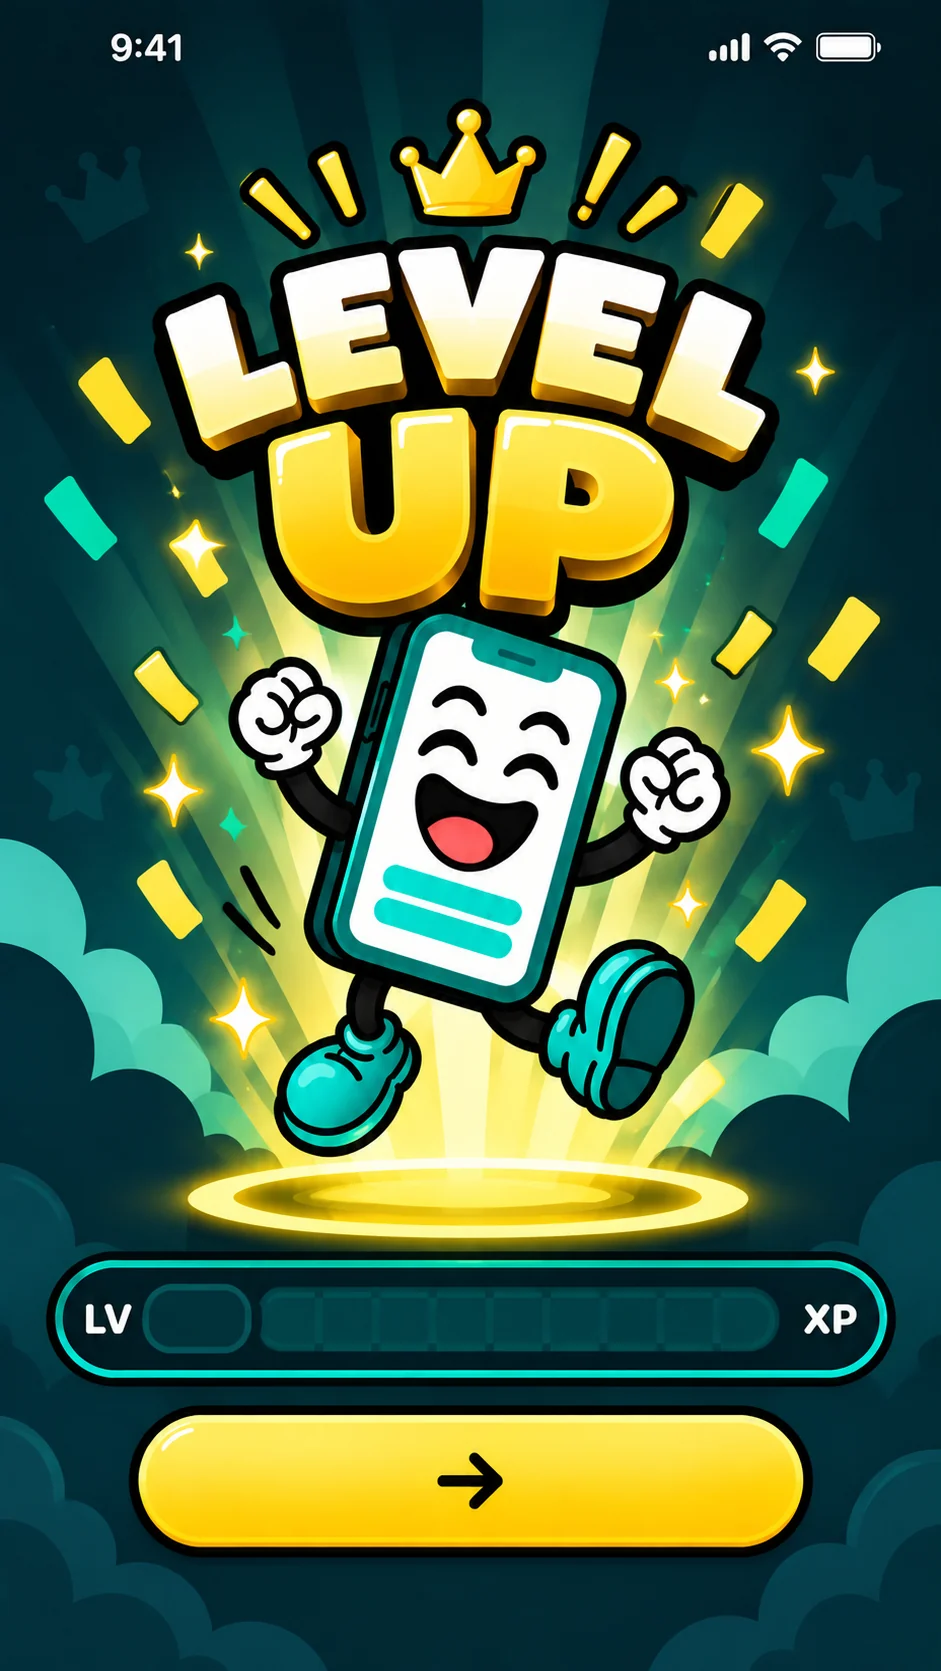
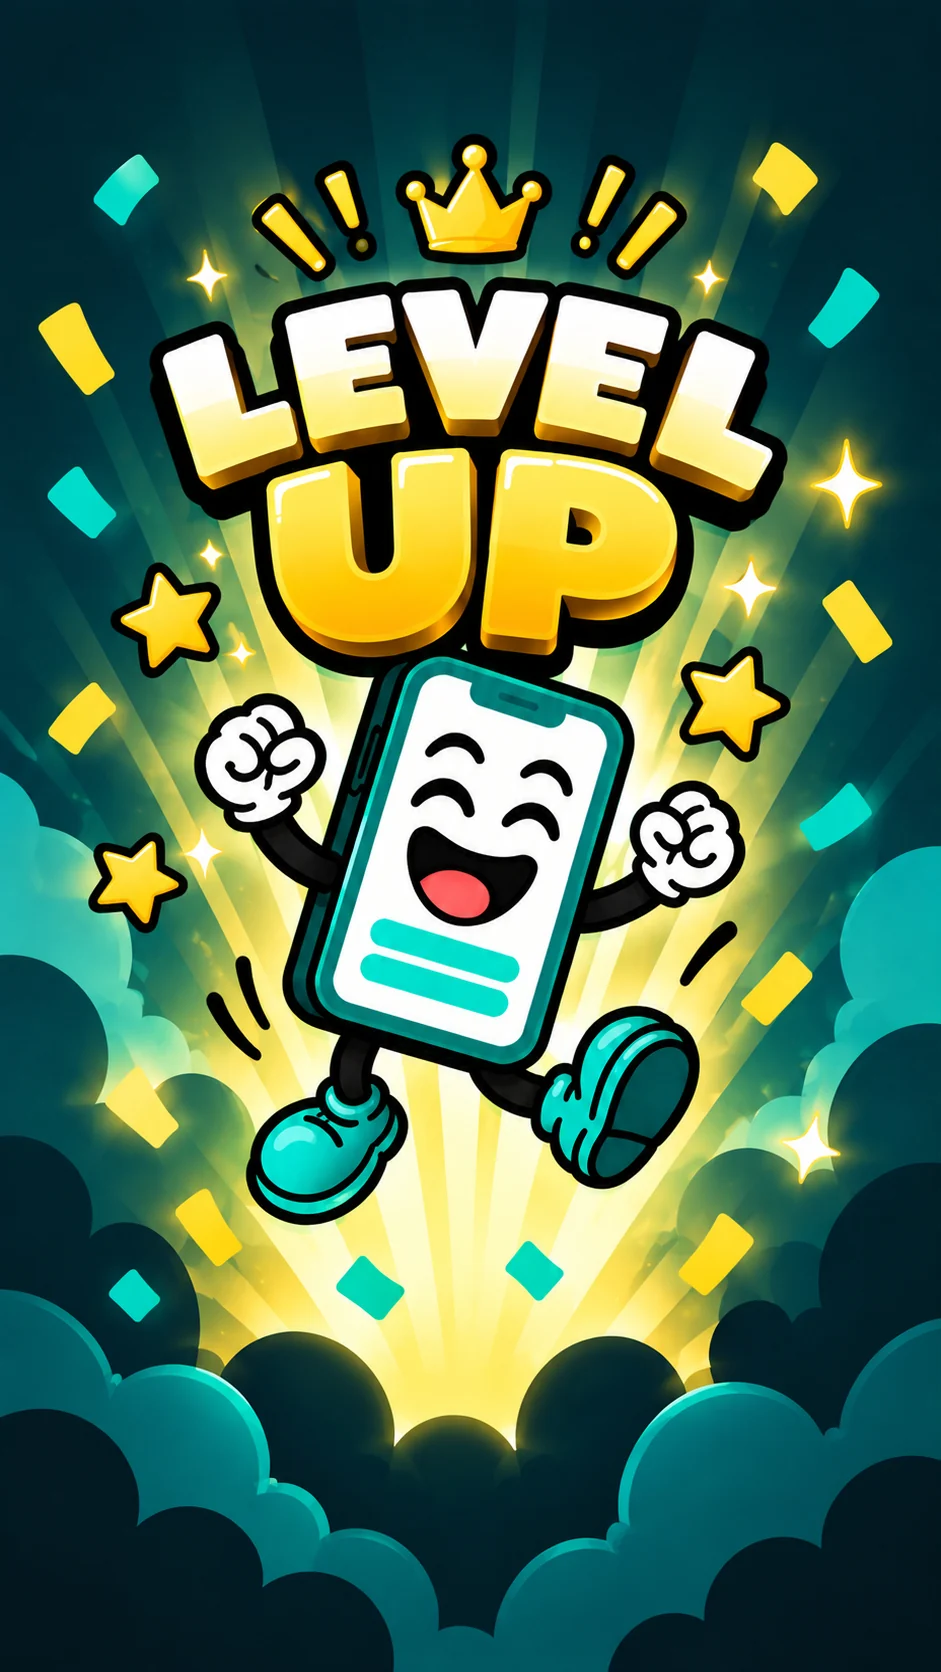
LEVEL UP: nuova immagine a tutto schermo, barra livello/XP e tasto giallo fatti dall'app

diff --git a/style.css b/style.css
@@ -939,19 +939,24 @@ body.fixed-screen .view { height: 100dvh; overflow: hidden; padding-bottom: calc
 .mban .mban-s { top: 51.5%; height: 7%; left: 52%; width: 40%; font-weight: 600; color: #6B7A70; font-size: clamp(8px, 2.4vw, 12px); white-space: nowrap; }
 .mban .mban-t { top: 59.5%; height: 15.5%; justify-content: center; text-align: center; padding: 0 3%; font-weight: 800; color: #1E6B3A; font-size: clamp(10px, 3vw, 15px); }
 
-/* ---------- LEVEL UP ---------- */
-.lvl { position: fixed; inset: 0; z-index: 95; background: #012E39; display: flex; align-items: center; justify-content: center; opacity: 0; transition: opacity .35s ease; }
+/* ---------- LEVEL UP: immagine a tutto schermo, barra e tasto fatti dall'app ---------- */
+.lvl { position: fixed; inset: 0; z-index: 95; background: #022B36; opacity: 0; transition: opacity .35s ease; overflow: hidden; }
 .lvl.in { opacity: 1; }
 .lvl.out { opacity: 0; }
-.lvl-box { position: relative; height: min(100dvh, calc(100vw / .563)); width: min(100vw, calc(100dvh * .563)); overflow: hidden; transform: scale(1.04); transition: transform .8s var(--ease-out); }
-.lvl.in .lvl-box { transform: scale(1); }
-.lvl-box img { position: absolute; left: -2.35%; top: -4.7%; width: 104.7%; height: 104.7%; object-fit: cover; }
-.lvl-num { position: absolute; left: 14.1%; top: 76.1%; width: 11.2%; height: 3.5%; display: flex; align-items: center; justify-content: center; color: #fff; font-weight: 800; font-size: clamp(16px, 5.2vw, 26px); text-shadow: 0 2px 0 rgba(0, 0, 0, .35); }
-.lvl-fill { position: absolute; left: 27.8%; top: 76.6%; width: 55.4%; height: 2.5%; border-radius: 999px; overflow: hidden; }
-.lvl-fill i { display: block; height: 100%; width: 0; border-radius: 999px; background: linear-gradient(90deg, #FFE55C, #FFC400); box-shadow: 0 0 12px rgba(255, 214, 0, .7); transition: width 1.1s cubic-bezier(.2, .8, .2, 1); }
-.lvl-xp { position: absolute; left: 0; right: 0; top: 71.8%; text-align: center; color: #BFF3E6; font-weight: 800; font-size: clamp(12px, 3.8vw, 18px); letter-spacing: .02em; text-shadow: 0 2px 6px rgba(0, 0, 0, .5); }
-.lvl-go { position: absolute; left: 13.2%; top: 83%; width: 73.6%; height: 8.5%; border-radius: 999px; background: transparent; cursor: pointer; }
-.lvl-go:active { background: rgba(255, 255, 255, .18); }
+.lvl-bg { position: absolute; inset: 0; background: #022B36 url('img/levelup.webp') center 38% / cover no-repeat; transform: scale(1.08); transition: transform 1.3s var(--ease-out); }
+.lvl.in .lvl-bg { transform: scale(1); }
+.lvl-ui { position: absolute; left: 0; right: 0; bottom: 0; padding: 56px 22px calc(var(--sab) + 26px); background: linear-gradient(to top, rgba(2, 43, 54, .92) 0, rgba(2, 43, 54, .7) 55%, transparent); display: flex; flex-direction: column; gap: 14px; transform: translateY(30px); opacity: 0; transition: transform .6s .25s var(--ease-out), opacity .6s .25s ease; }
+.lvl.in .lvl-ui { transform: none; opacity: 1; }
+.lvl-bar2 { display: flex; align-items: center; gap: 10px; height: 58px; padding: 0 16px; border-radius: 18px; background: #06323D; border: 3px solid #1FD1B5; box-shadow: 0 0 0 3px #04252E, 0 10px 24px rgba(0, 0, 0, .35); color: #E9FBF7; font-weight: 800; font-size: 15px; letter-spacing: .05em; }
+.lb-n { min-width: 48px; height: 36px; padding: 0 8px; border-radius: 10px; background: rgba(255, 255, 255, .08); border: 2px solid rgba(31, 209, 181, .5); display: inline-flex; align-items: center; justify-content: center; font-size: 19px; color: #FFD84D; }
+.lb-track { flex: 1; height: 24px; border-radius: 8px; background: rgba(255, 255, 255, .07); border: 2px solid rgba(31, 209, 181, .35); overflow: hidden; position: relative; }
+.lb-track i { display: block; height: 100%; width: 0; background: linear-gradient(90deg, #FFE55C, #FFC400); box-shadow: 0 0 14px rgba(255, 214, 0, .8); transition: width 1.1s cubic-bezier(.2, .8, .2, 1); }
+.lb-track::after { content: ''; position: absolute; inset: 0; background: repeating-linear-gradient(90deg, transparent 0 calc(10% - 2px), rgba(4, 37, 46, .9) calc(10% - 2px) 10%); pointer-events: none; }
+.lvl-xp2 { text-align: center; color: #BFF3E6; font-weight: 800; font-size: 14px; letter-spacing: .03em; margin-top: -4px; text-shadow: 0 2px 6px rgba(0, 0, 0, .5); }
+.lvl-btn { height: 64px; border-radius: 999px; background: linear-gradient(#FFE04D, #FFC400); box-shadow: 0 6px 0 #C99600, 0 12px 24px rgba(0, 0, 0, .35); color: #1F2A24; display: flex; align-items: center; justify-content: center; transition: transform .1s ease, box-shadow .1s ease; animation: lvlPulse 1.6s .9s ease-in-out infinite; }
+.lvl-btn .ic { width: 32px; height: 32px; stroke-width: 2.6; }
+.lvl-btn:active { transform: translateY(4px); box-shadow: 0 2px 0 #C99600, 0 6px 14px rgba(0, 0, 0, .3); animation: none; }
+@keyframes lvlPulse { 0%, 100% { transform: scale(1); } 50% { transform: scale(1.025); } }
 .lvl-ring { position: relative; width: 140px; height: 140px; margin: 0 auto; }
 .lvl-ring svg { position: absolute; inset: 0; width: 100%; height: 100%; transform: rotate(-90deg); }
 .lvl-ring .tr { fill: none; stroke: rgba(255, 255, 255, .18); stroke-width: 5; }

diff --git a/app.js b/app.js
@@ -5,7 +5,7 @@
 (() => {
 'use strict';
 
-const APP_VERSION = '1.36.3';
+const APP_VERSION = '1.37.0';
 const KEY = 'pari:v1';
 /* Progetto Supabase "divvy": indirizzo e chiave pubblica (anon) sono pensati per stare nel client; la privacy è nel codice casa */
 const SUPA_URL = 'https://odvbwrrpbkuqccoprrrc.supabase.co';
@@ -1090,11 +1090,11 @@ function levelInfo() { const xp = xpTotal(); let lv = 1; while (xp >= xpFor(lv +
 /* schermata "LEVEL UP" a tutto schermo (immagine di Lucas + livello, XP e barra disegnati sopra) */
 function showLevelUp(li) {
   if ($('#levelup')) return; const el = document.createElement('div'); el.id = 'levelup'; el.className = 'lvl';
-  el.innerHTML = `<div class="lvl-box"><img src="img/levelup.webp" alt=""><div class="lvl-xp" data-no-i18n>${li.xp} / ${li.next} XP</div><div class="lvl-num" data-no-i18n>${li.lv}</div><div class="lvl-fill"><i style="width:0%"></i></div><button type="button" class="lvl-go" aria-label="Continua"></button></div>`;
+  el.innerHTML = `<div class="lvl-bg"></div><div class="lvl-ui"><div class="lvl-bar2" data-no-i18n><span class="lb-l">LV</span><span class="lb-n">${li.lv}</span><span class="lb-track"><i style="width:0%"></i></span><span class="lb-l">XP</span></div><div class="lvl-xp2" data-no-i18n>${li.xp} / ${li.next} XP</div><button type="button" class="lvl-btn" aria-label="Continua"><svg class="ic" viewBox="0 0 24 24"><path d="M5 12h14M13 6l6 6-6 6"/></svg></button></div>`;
   document.body.appendChild(el); try { if (navigator.vibrate) navigator.vibrate([40, 60, 40]); } catch (_) {}
-  requestAnimationFrame(() => requestAnimationFrame(() => { el.classList.add('in'); setTimeout(() => { const f = $('.lvl-fill i', el); if (f) f.style.width = Math.max(4, li.pct) + '%'; }, 500); }));
+  requestAnimationFrame(() => requestAnimationFrame(() => { el.classList.add('in'); setTimeout(() => { const f = $('.lb-track i', el); if (f) f.style.width = Math.max(4, li.pct) + '%'; }, 500); }));
   const close = () => { el.classList.remove('in'); el.classList.add('out'); setTimeout(() => el.remove(), 450); };
-  $('.lvl-go', el).addEventListener('click', close); el.addEventListener('click', (e) => { if (e.target === el) close(); });
+  $('.lvl-btn', el).addEventListener('click', close); el.addEventListener('click', (e) => { if (e.target === el || e.target.classList.contains('lvl-bg')) close(); });
 }
 function levelCheck() {
   let li; try { missionBusy = true; li = levelInfo(); } catch (_) { return; } finally { missionBusy = false; }

diff --git a/sw.js b/sw.js
@@ -1,7 +1,7 @@
 /* Divvy — service worker.
    Shell (html/js/css): prima la rete, cache solo se offline → gli aggiornamenti si vedono subito.
    Immagini, icone, font: prima la cache. Supabase: mai toccato. */
-const VERSION = 'pari-v1.36.3';
+const VERSION = 'pari-v1.37.0';
 const SHELL = [
   './', './index.html', './style.css', './app.js', './i18n.js', './img/traguardi/coppa.webp', './img/traguardi/mondo.webp', './img/traguardi/vetta.webp', './img/traguardi/sdraio.webp', './img/traguardi/pesi.webp', './img/traguardi/calendario.webp', './img/traguardi/moneta.webp', './img/traguardi/scontrino.webp', './img/traguardi/categorie.webp', './img/traguardi/torta.webp', './img/traguardi/salvadanaio.webp', './img/traguardi/tresalvadanai.webp', './img/traguardi/palloncino.webp', './img/traguardi/settimane.webp', './img/traguardi/sei.webp', './img/traguardi/compleanno.webp', './img/traguardi/sveglia.webp', './img/traguardi/mattino.webp', './img/traguardi/notte.webp', './img/traguardi/turno.webp', './img/traguardi/bilancia.webp', './img/traguardi/team.webp', './img/traguardi/collezione.webp', './img/traguardi/lingue.webp', './img/traguardi/scansione.webp', './img/scansione.webp', './img/missione.webp', './img/levelup.webp', './manifest.webmanifest',
   './icons/icon-192.png', './icons/icon-512.png', './icons/apple-touch-icon.png', './icons/favicon.png',
